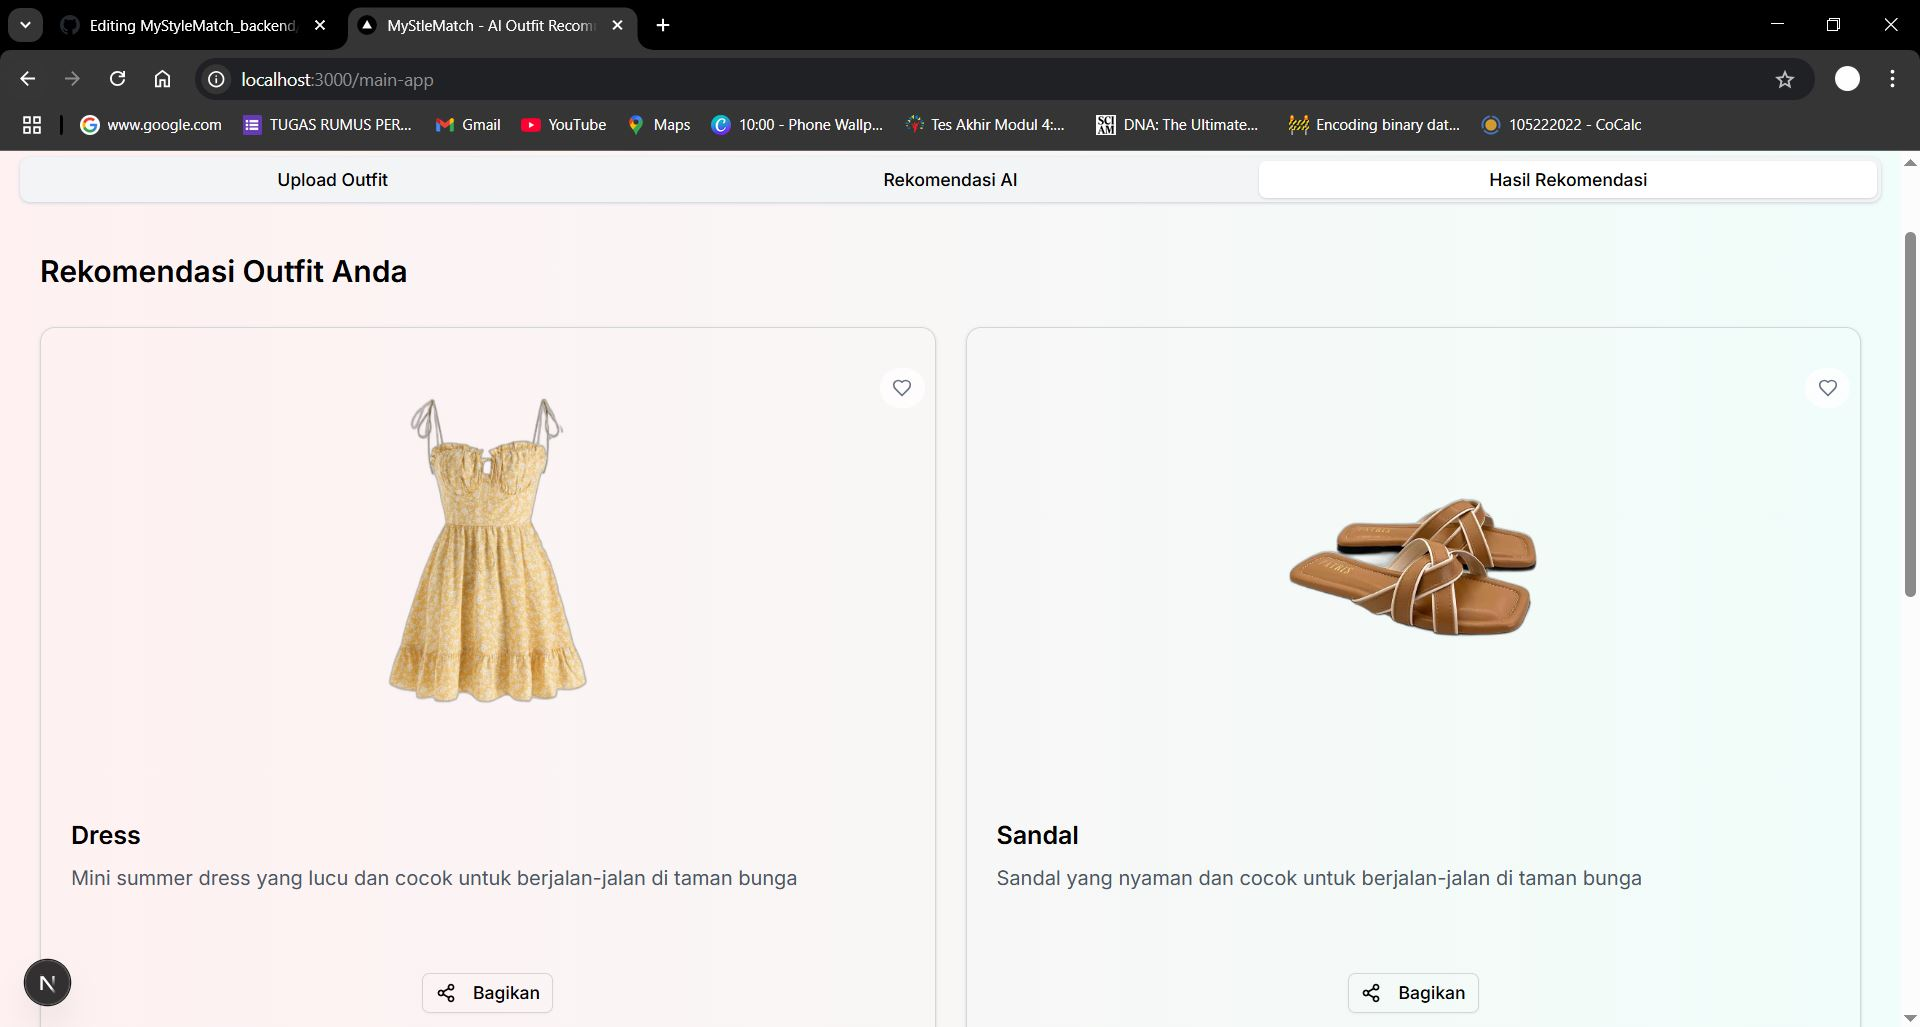
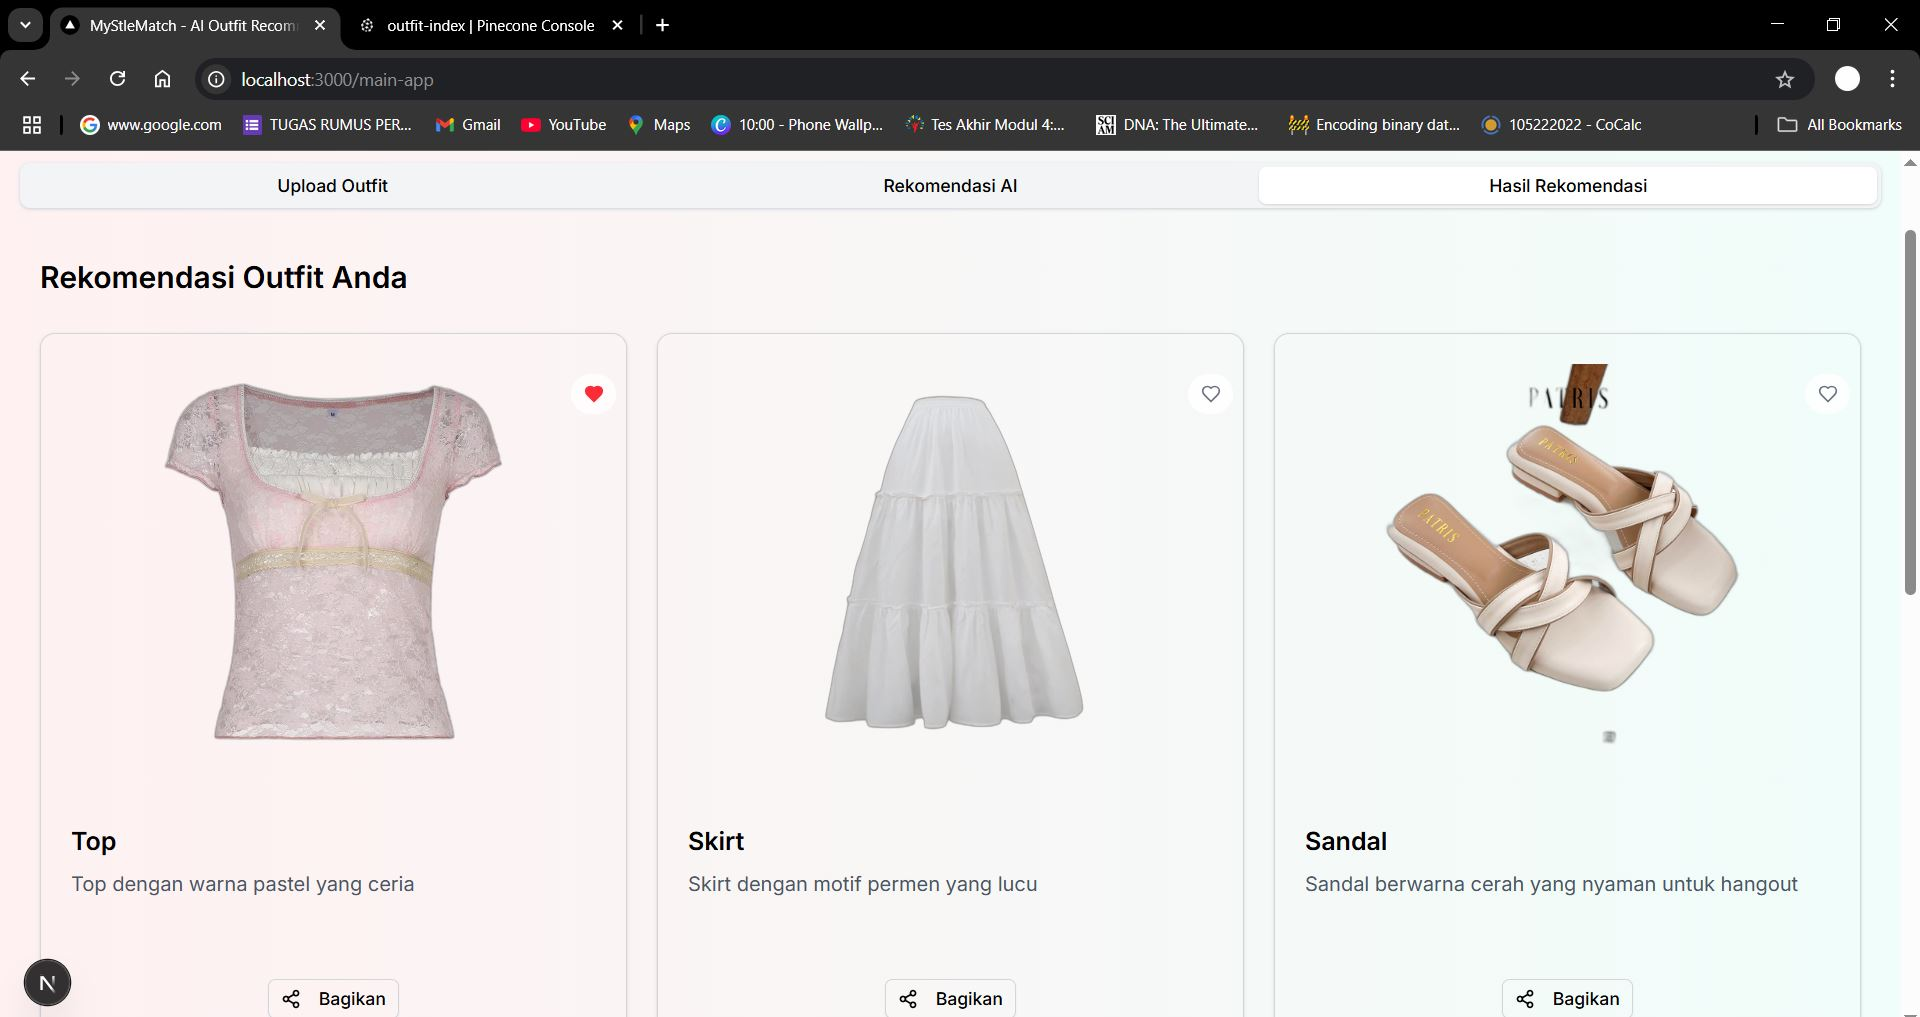
updated handle submit prompt and dataset

diff --git a/frontend/src/app/main-app/page.tsx b/frontend/src/app/main-app/page.tsx
@@ -102,6 +102,11 @@ export default function OutfitApp() {
       return
     }
 
+    if (selectedCategories.includes("dress") && selectedCategories.includes("skirt")) {
+      const proceed = window.confirm("Dress dan skirt tidak cocok dipadukan!\nLanjutkan pencarian?")
+      if (!proceed) return
+    }
+
     console.log("Attempting to send request with:", { 
       prompt: promptText, 
       outfit_options: selectedCategories 

diff --git a/backend/routes/upload_img.py b/backend/routes/upload_img.py
@@ -18,7 +18,7 @@ def process_image(image: Image.Image):
     unique_filename = f"{uuid.uuid4()}.png"
     return output_image, unique_filename
 
-def is_similar_image(index, new_vector, similarity_threshold=0.95, top_k=5):
+def is_similar_image(index, new_vector, similarity_threshold=0.98, top_k=5):
 
     results = index.query(vector=new_vector, top_k=top_k, include_values=False, include_metadata=True)
     
